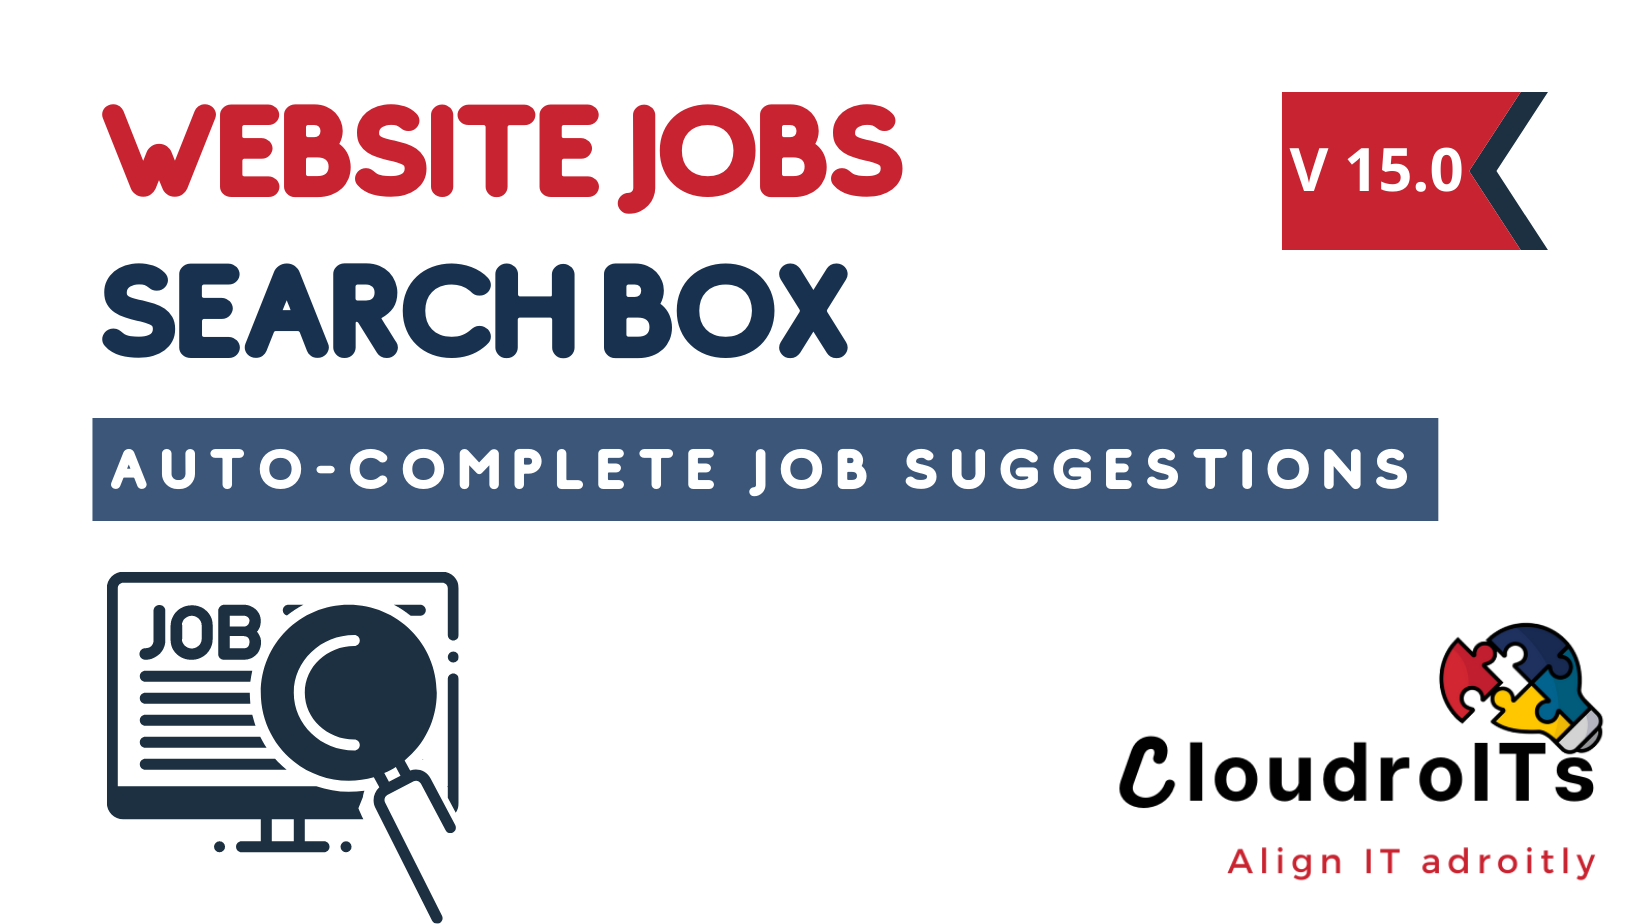
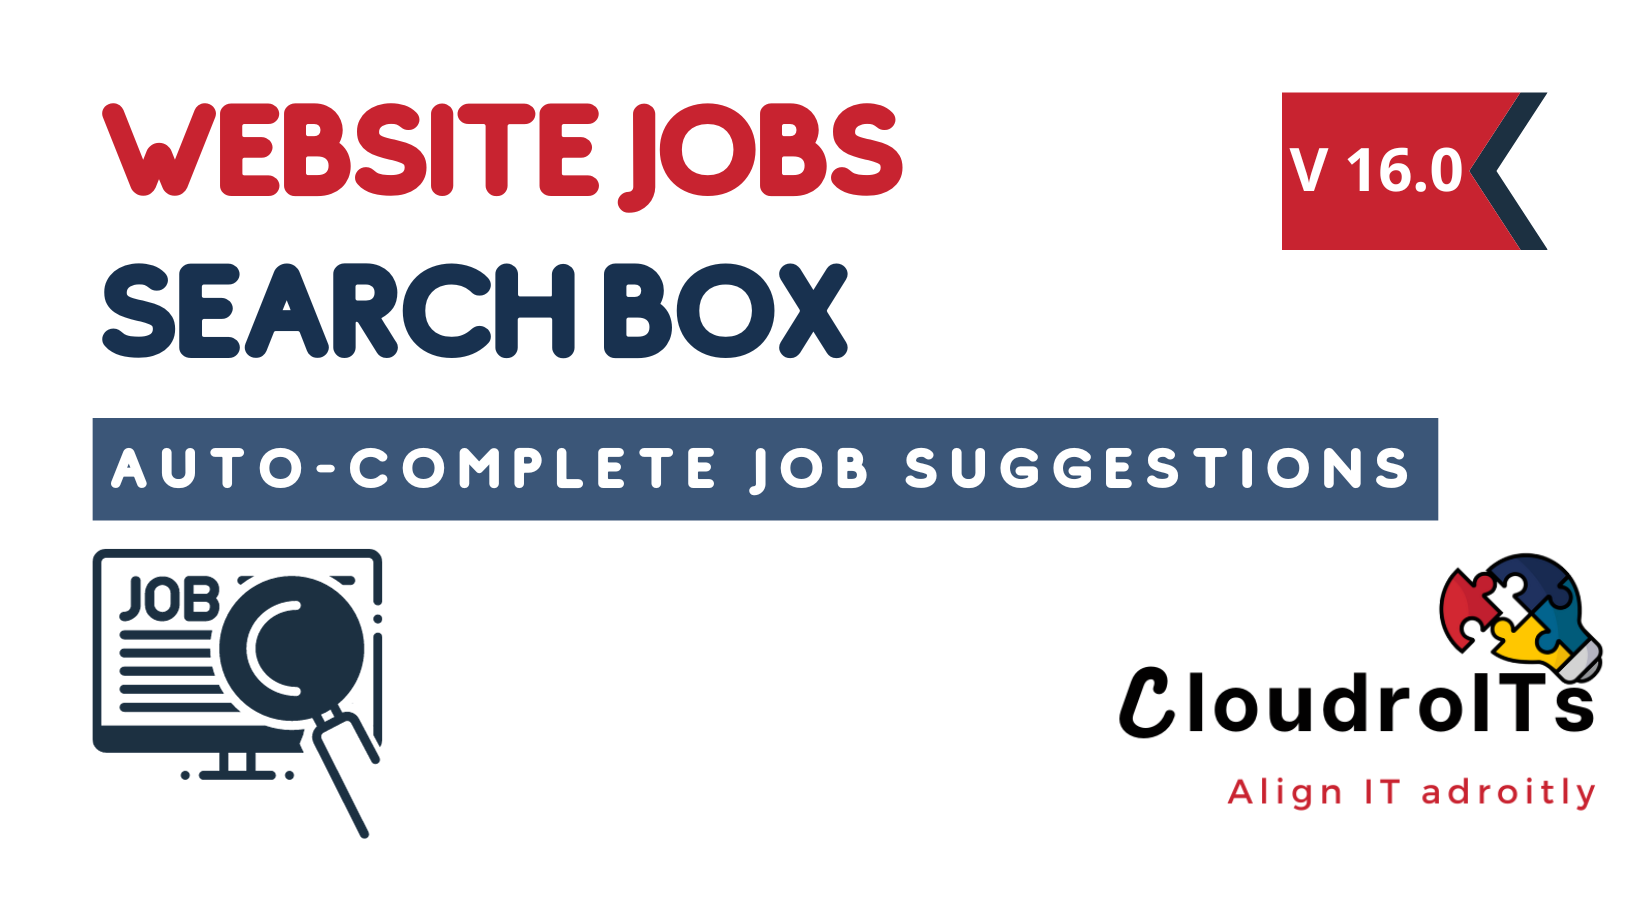
Upgrade to Version 16.0

diff --git a/odoo_website_job_search/controllers/main.py b/odoo_website_job_search/controllers/main.py
@@ -96,7 +96,7 @@ class RecruitmentInherit(WebsiteHrRecruitment):
             'department_id': department,
             'office_id': office_id,
         })
-@http.route('/job/search', csrf=False, type="http", methods=['POST', 'GET'], auth="public", website=True)
+    @http.route('/job/search', csrf=False, type="http", methods=['POST', 'GET'], auth="public", website=True)
     def search_contents(self, **kw):
         """get search result for auto suggestions"""
         search_string = '%' + kw.get('name') + '%'

diff --git a/odoo_website_job_search/__manifest__.py b/odoo_website_job_search/__manifest__.py
@@ -20,7 +20,7 @@
 
 {
     'name': 'Website Job Search',
-    'version': '15.0',
+    'version': '16.0',
     "category": "Website",
     'author': 'Cloudroits',
     'website': "https://www.cloudroits.com",
